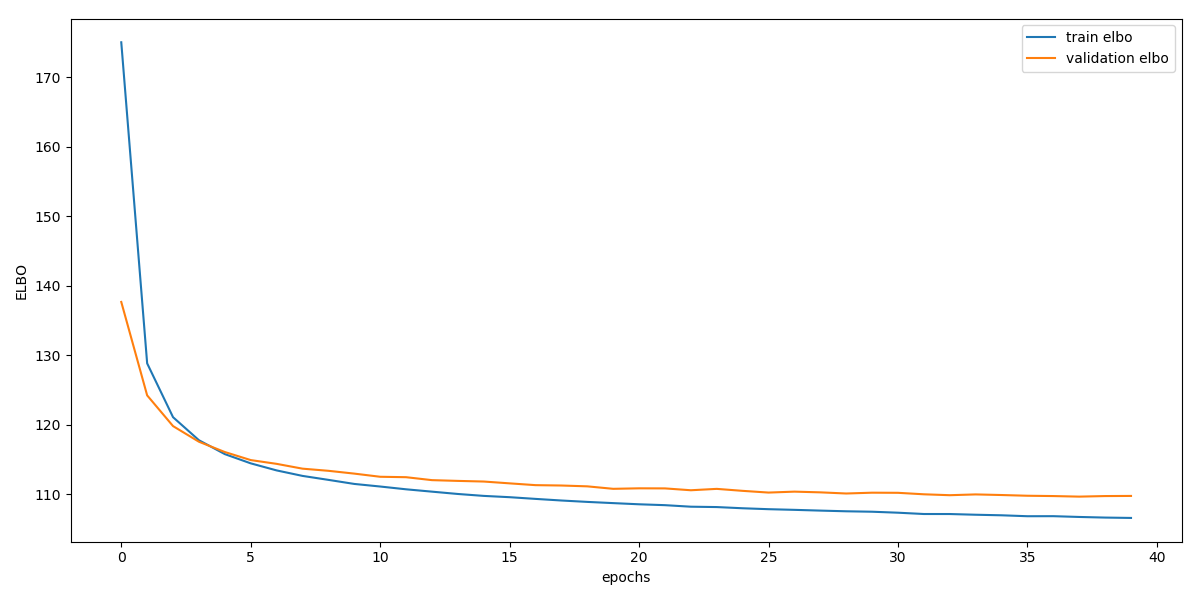
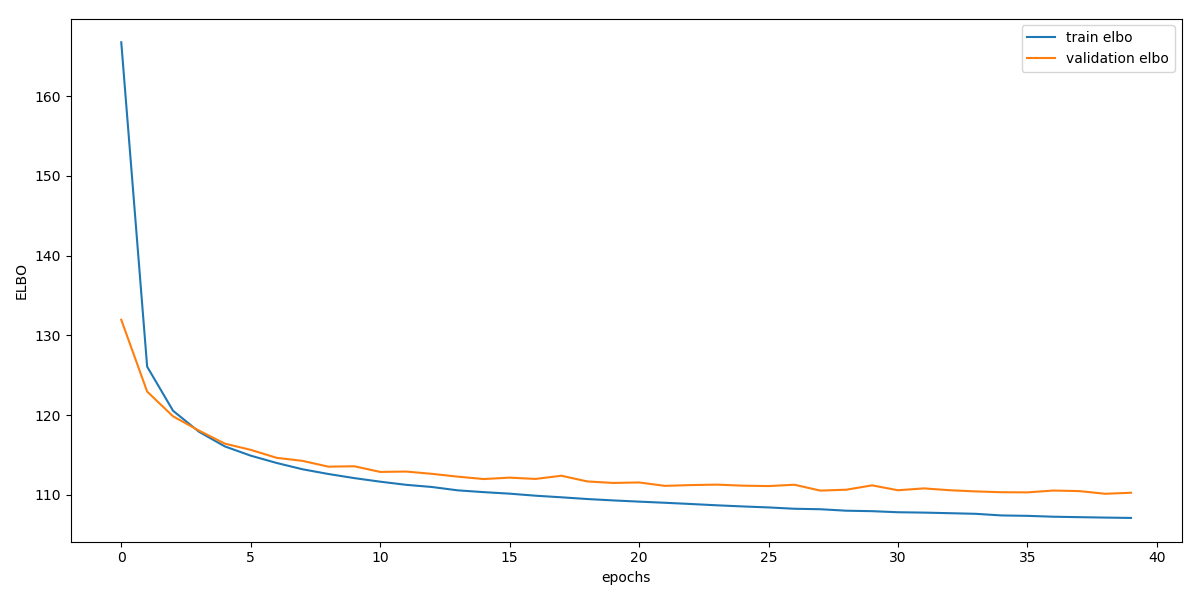
RELU => TANH

diff --git a/assignment_3/templates/a3_nf_template.py b/assignment_3/templates/a3_nf_template.py
@@ -38,7 +38,7 @@ def get_mask():
             if (i + j) % 2 == 0:
                 mask[i, j] = 1
 
-    mask = mask.reshape(1, 28*28)
+    mask = mask.reshape(1, 28 * 28)
     mask = torch.from_numpy(mask)
 
     return mask
@@ -57,7 +57,7 @@ class Coupling(torch.nn.Module):
         # Suggestion: Linear ReLU Linear ReLU Linear.
         self.nn = torch.nn.Sequential(
             None
-            )
+        )
 
         # The nn should be initialized such that the weights of the last layer
         # is zero, so that its initial transform is identity.
@@ -93,7 +93,7 @@ class Flow(nn.Module):
 
         for i in range(n_flows):
             self.layers.append(Coupling(c_in=channels, mask=mask))
-            self.layers.append(Coupling(c_in=channels, mask=1-mask))
+            self.layers.append(Coupling(c_in=channels, mask=1 - mask))
 
         self.z_shape = (channels,)
 
@@ -128,15 +128,15 @@ class Model(nn.Module):
             logdet -= np.log(256) * np.prod(z.size()[1:])
 
             # Logit normalize
-            z = z*(1-alpha) + alpha*0.5
-            logdet += torch.sum(-torch.log(z) - torch.log(1-z), dim=1)
-            z = torch.log(z) - torch.log(1-z)
+            z = z * (1 - alpha) + alpha * 0.5
+            logdet += torch.sum(-torch.log(z) - torch.log(1 - z), dim=1)
+            z = torch.log(z) - torch.log(1 - z)
 
         else:
             # Inverse normalize
             z = torch.sigmoid(z)
-            logdet += torch.sum(torch.log(z) + torch.log(1-z), dim=1)
-            z = (z - alpha*0.5)/(1 - alpha)
+            logdet += torch.sum(torch.log(z) + torch.log(1 - z), dim=1)
+            z = (z - alpha * 0.5) / (1 - alpha)
 
             # Multiply by 256.
             logdet += np.log(256) * np.prod(z.size()[1:])
@@ -151,8 +151,8 @@ class Model(nn.Module):
         z = input
         ldj = torch.zeros(z.size(0), device=z.device)
 
-        z = self.dequantize(z)
-        z, ldj = self.logit_normalize(z, ldj)
+        z = self.dequantize(z)  # discrete => continuous image
+        z, ldj = self.logit_normalize(z, ldj)  #
 
         z, ldj = self.flow(z, ldj)
 

diff --git a/assignment_3/templates/a3_vae_template.py b/assignment_3/templates/a3_vae_template.py
@@ -19,7 +19,7 @@ class Encoder(nn.Module):
 
         self.embed_trans = nn.Sequential(
             nn.Linear(input_dim, hidden_dim),
-            nn.ReLU()
+            nn.Tanh()
         )
         self.linear_mu = nn.Linear(hidden_dim, z_dim)
         self.linear_var = nn.Linear(hidden_dim, z_dim)
@@ -84,6 +84,7 @@ class VAE(nn.Module):
         # randn => N(0, I)
         epsilon = torch.randn(mu.size()).to(self.device)
         latent_z = mu + std * epsilon
+
         x_hat = self.decoder(latent_z)
 
         average_negative_elbo = self.calc_neg_elbo_loss(x_hat, input, mu, log_var)
@@ -91,7 +92,7 @@ class VAE(nn.Module):
         return average_negative_elbo
 
     def calc_neg_elbo_loss(self, x_hat, x_target, mu, log_var):
-        eps = 1e-10
+        eps = 1e-12
         log_bernoulli_loss = -torch.sum(x_target * torch.log(x_hat + eps) + (1 - x_target) * torch.log(1 - x_hat + eps),
                                         dim=1)
         KL_loss = 0.5 * torch.sum(log_var.exp() + mu.pow(2) - log_var, dim=1) - 1
